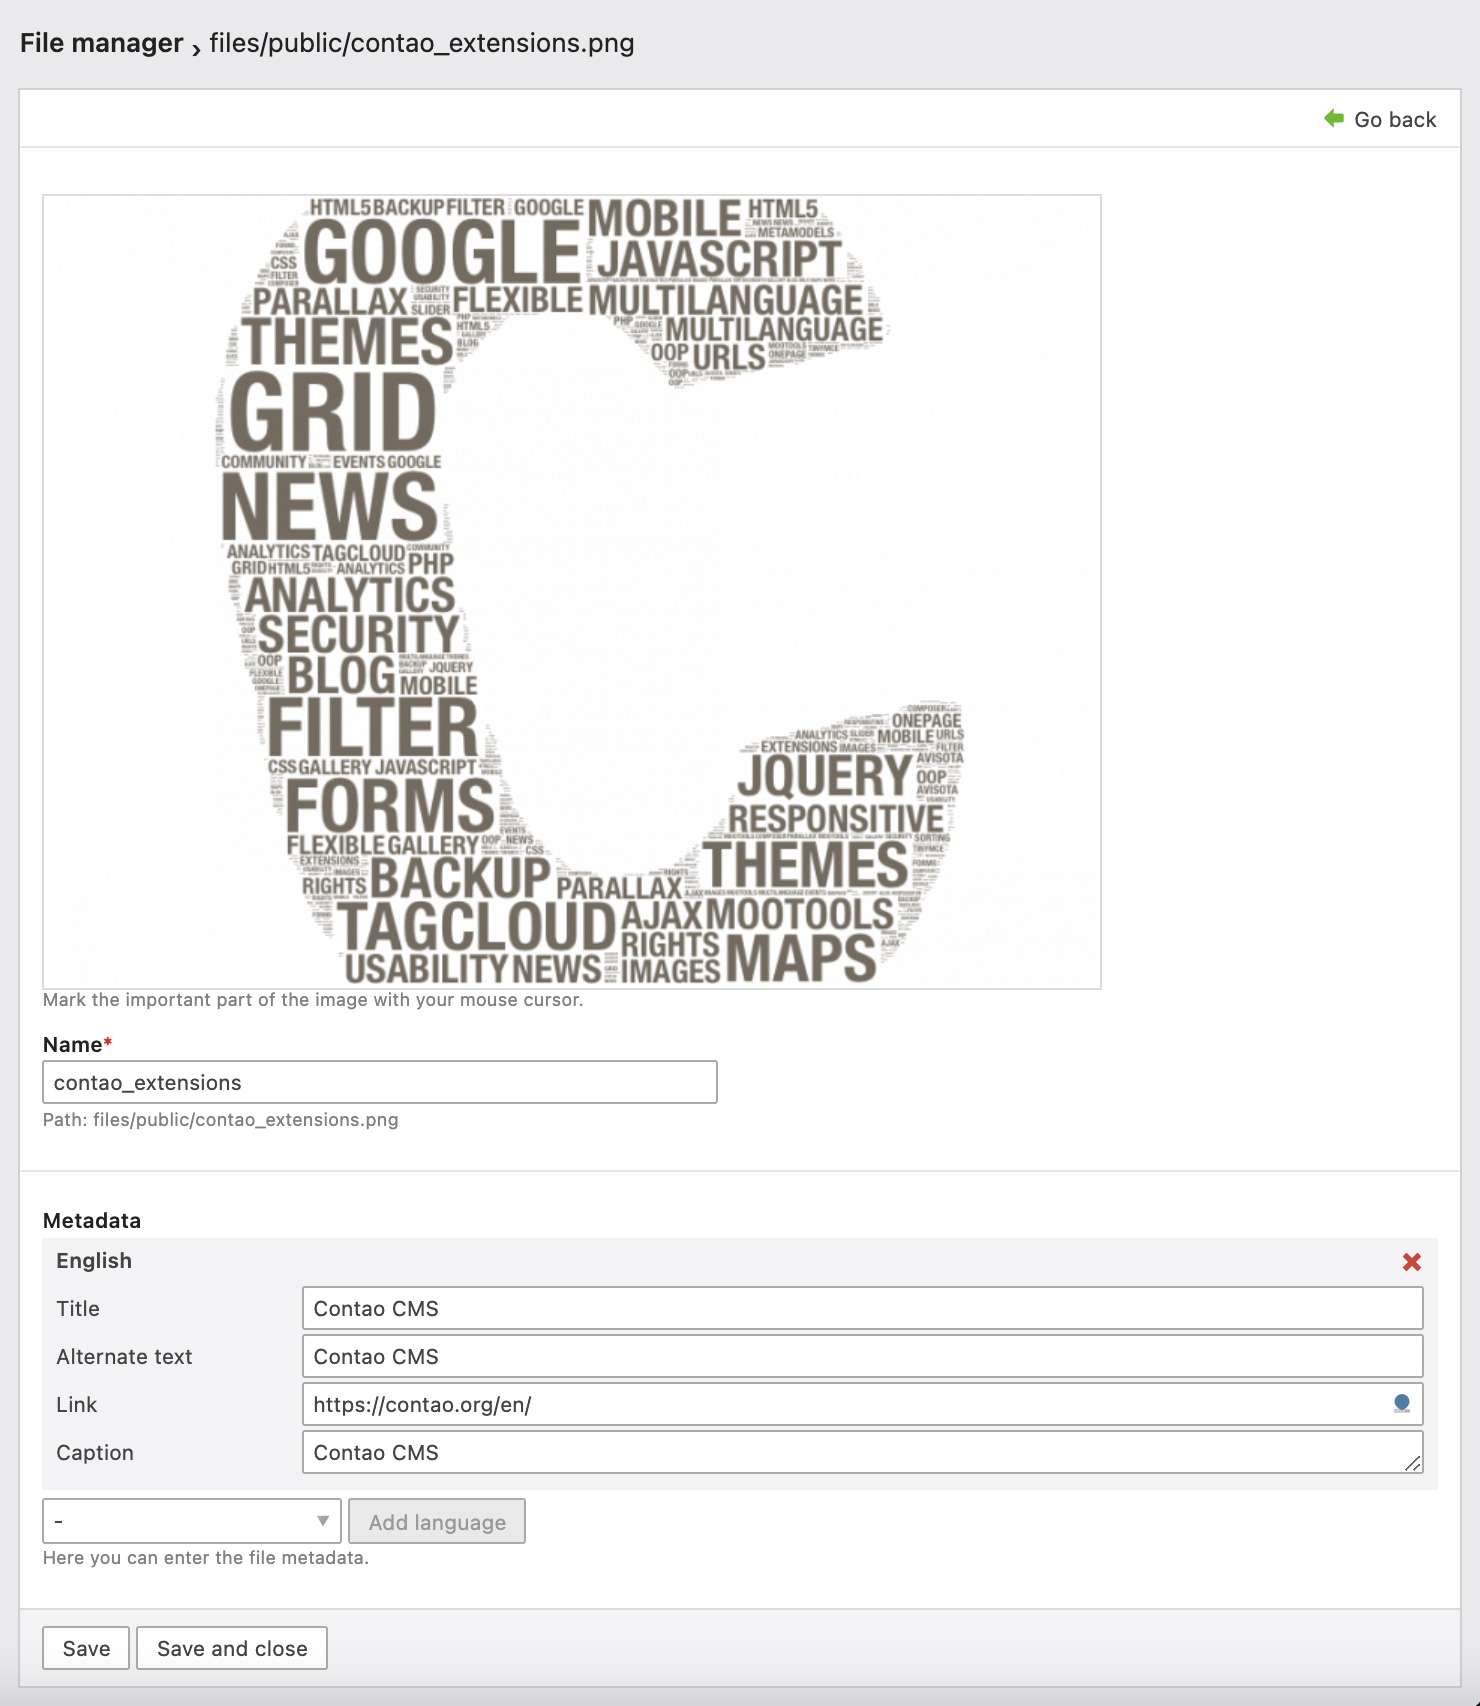
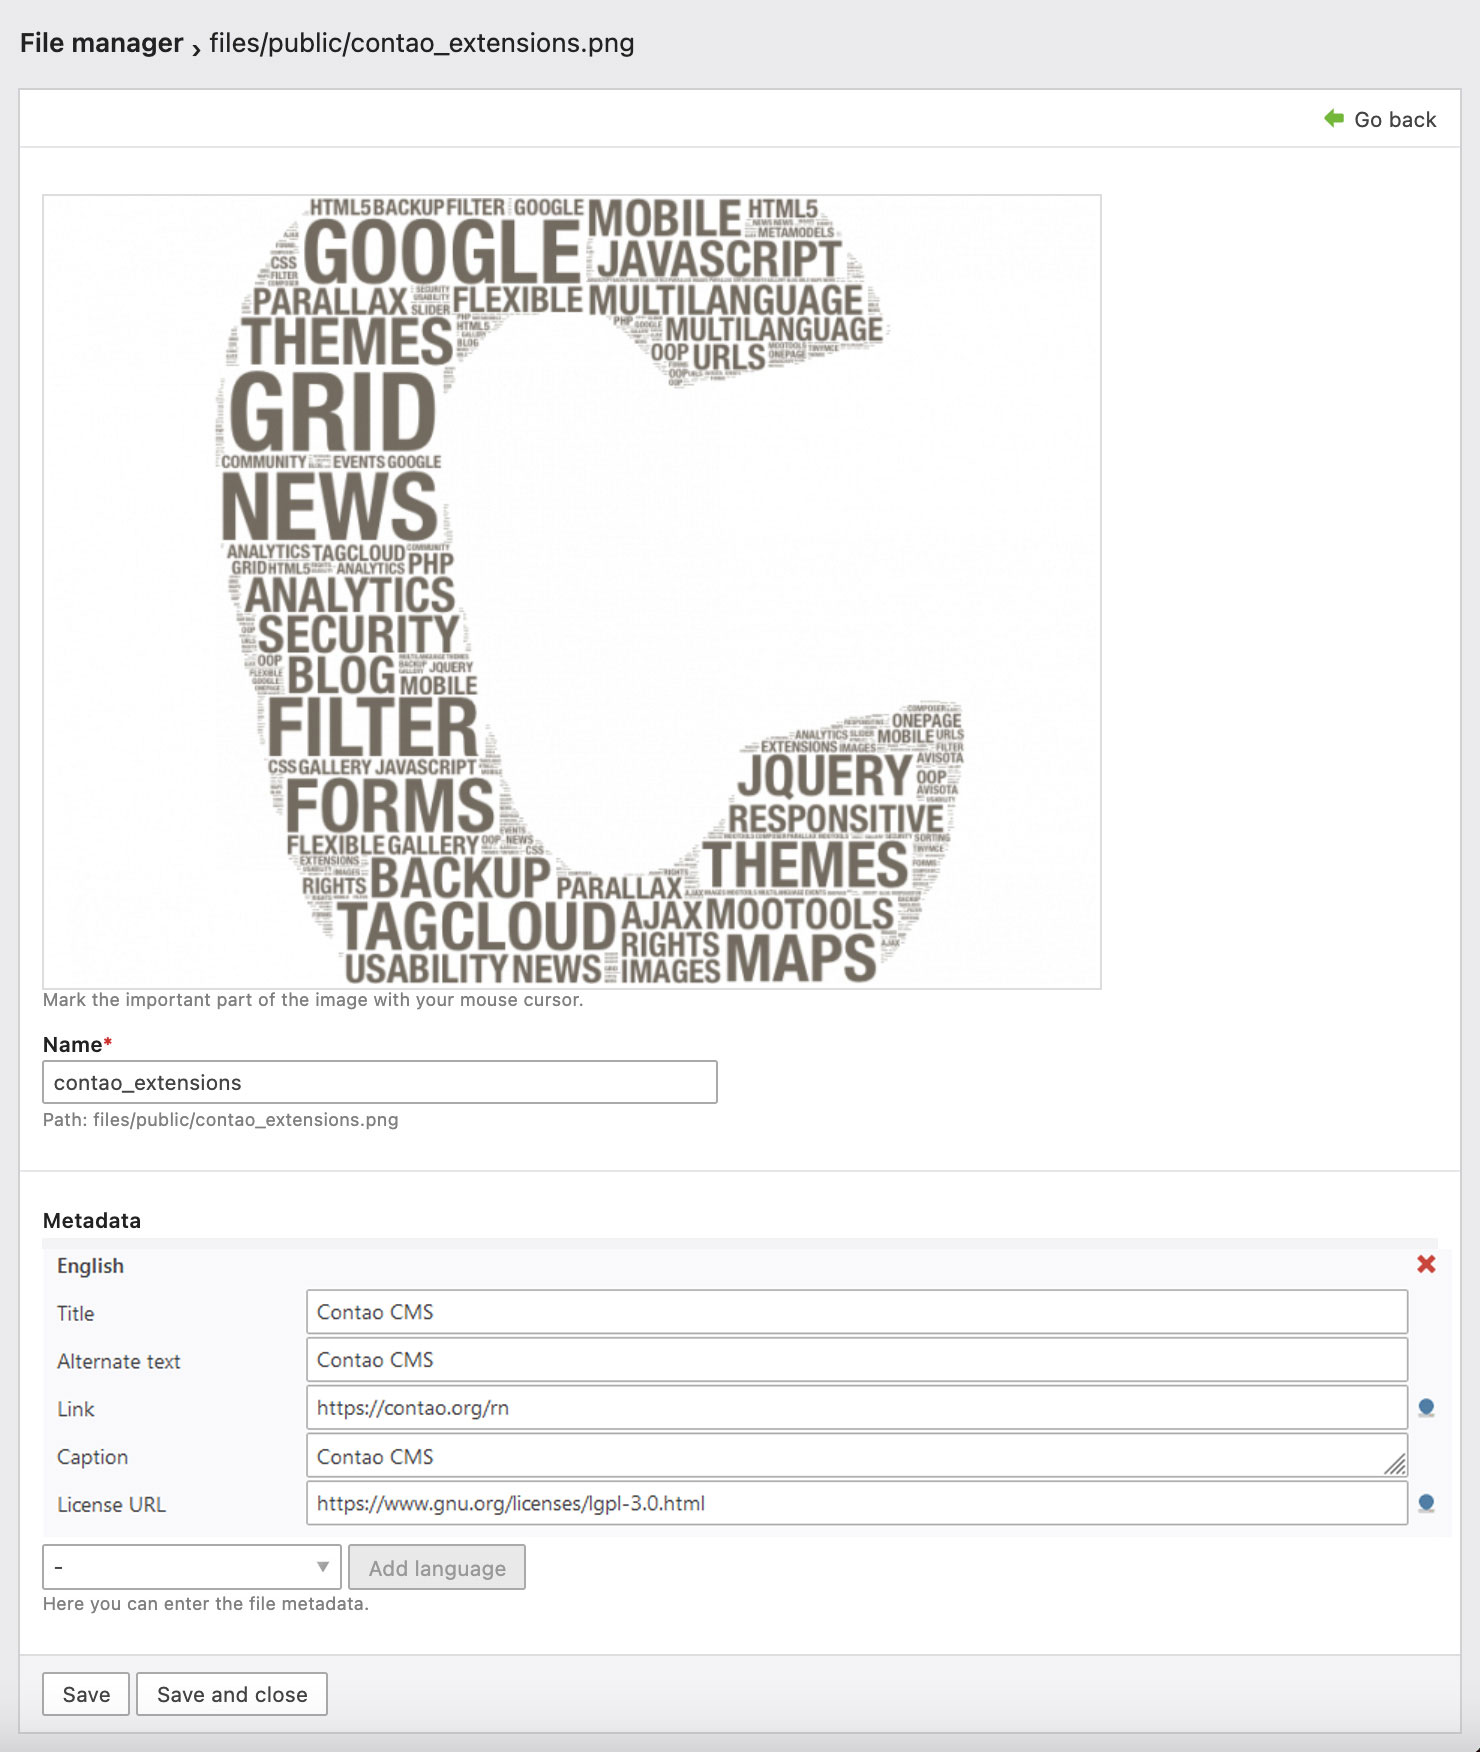
Add description for license URL
Add description for license URL

diff --git a/docs/manual/file-manager/meta-data.en.md b/docs/manual/file-manager/meta-data.en.md
@@ -17,6 +17,7 @@ Contao supports the following metadata:
 - Alternative text
 - Link
 - Caption
+- License URL
 
 ![Maintaining the metadata](/de/file-manager/images/en/maintaining_the_metadata.jpg?classes=shadow)
 
@@ -33,3 +34,40 @@ Contao supports the following metadata:
     </figure>
 </div>
 ```
+
+**License URL**
+{{< version "4.13" >}}
+
+The license URL is displayed on the corresponding page on which the image is embedded in [JSON-LD format](https://en.wikipedia.org/wiki/JSON-LD") as [SCHEMA-ImageObject entry](https://schema.org/ImageObject "SCHEMA-ImageObject") included to comply with licensing notices.
+
+**The HTML output**
+The license URL generates the following HTML code:
+
+```html
+<script type="application/ld+json">
+[
+    {
+        "@context": "https:\/\/schema.org",
+        "@graph": [
+        ...
+            {
+                "@id": "#\/schema\/image\/406494fa-4de4-11ed-abcf-001a4a0502b4",
+                "@type": "ImageObject",
+                "caption": "Contao CMS",
+                "contentUrl": "assets\/images\/c\/contao_extensions-c6607fb7.png",
+                "license": "https:\/\/www.gnu.org\/licenses\/lgpl-3.0.html",
+                "name": "Contao CMS"
+            }
+        ]
+    },
+    ...
+]
+</script>
+```
+
+To specify the license URL under the image on the page, you can add the following code to the image.html5 template:
+
+```php
+<?php if($this->license): ?><p class="ce_image__license" ><?= $this->license ?></p><?php endif; ?>
+```
+

diff --git a/docs/manual/file-manager/meta-data.de.md b/docs/manual/file-manager/meta-data.de.md
@@ -35,6 +35,7 @@ Das Inhaltselement vom Elementtyp »Bild« generiert folgenden HTML-Code:
 </div>
 ```
 
+**Lizenz-URL**
 {{< version "4.13" >}}
 
 Die Lizenz-URL wird auf der entsprechenden Seite, auf der das Bild eingebunden ist, im [JSON-LD-Format](https://de.wikipedia.org/wiki/ JSON-LD "JSON-LD-Format") als [SCHEMA-ImageObject-Eintrag](https://schema.org/ImageObject "SCHEMA-ImageObject") eingebunden, um Lizensierungshinweisen gerecht zu werden.
